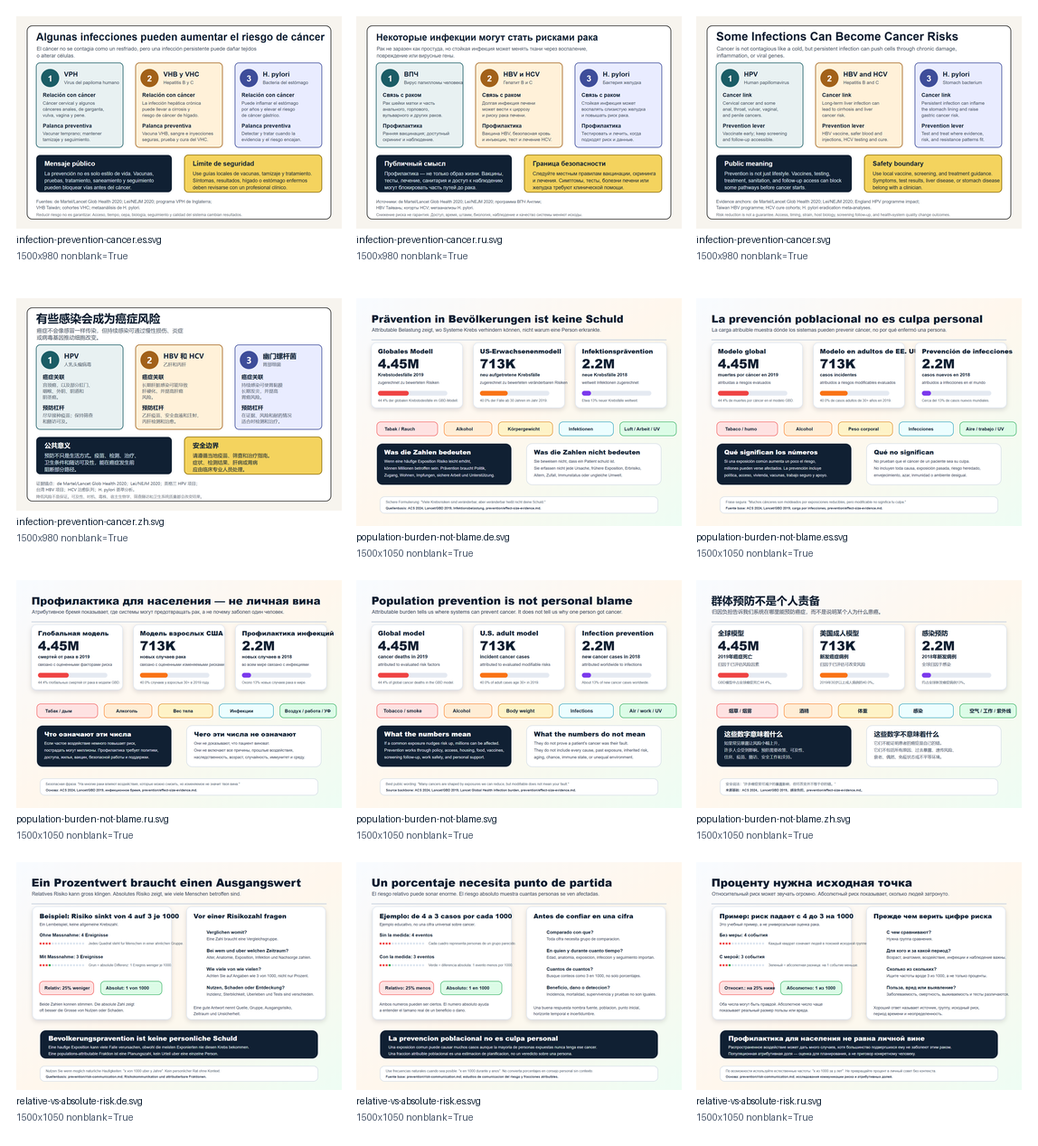
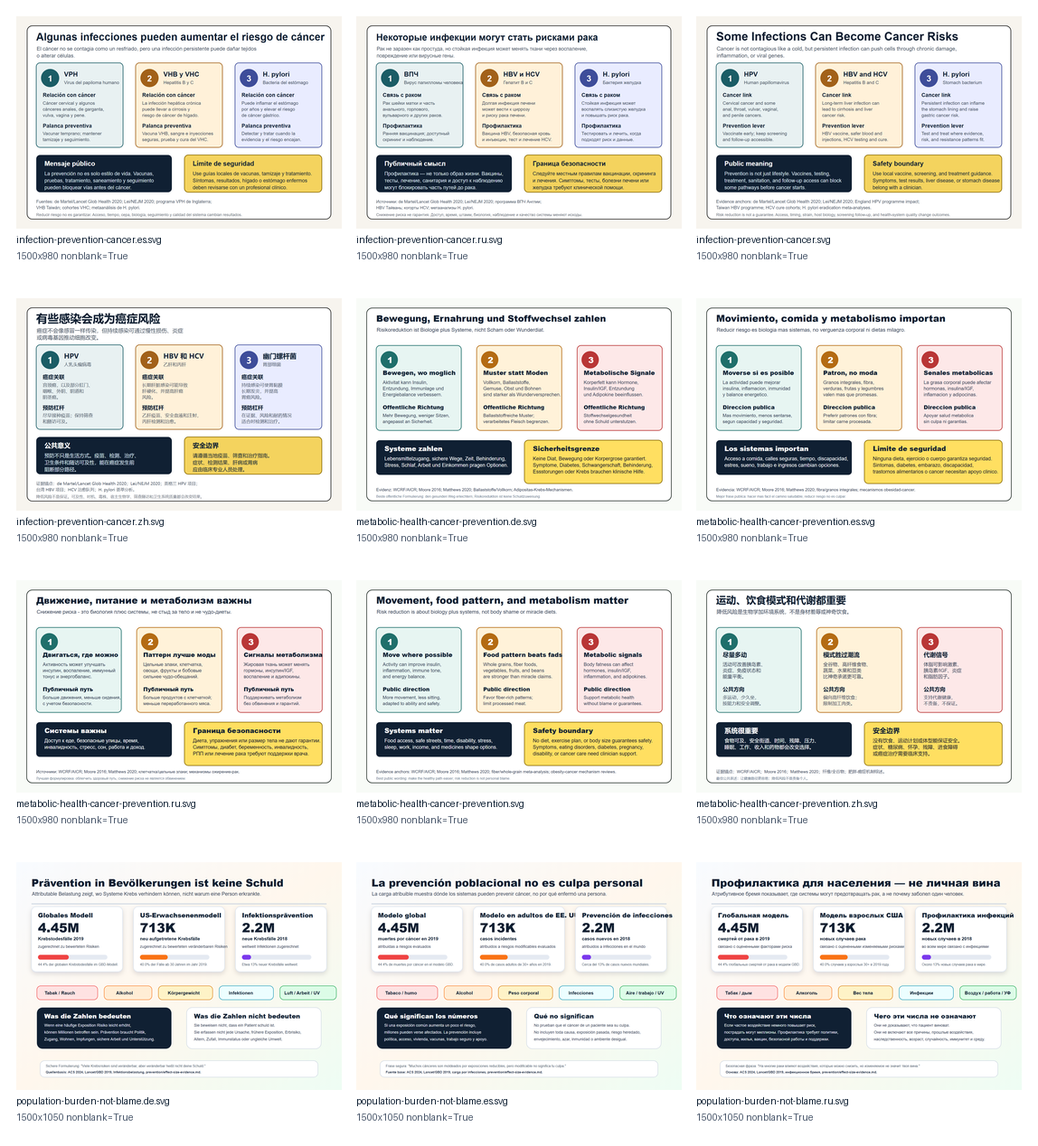
Add metabolic health prevention visuals

diff --git a/prevention/metabolic-health-diet-activity-evidence.md b/prevention/metabolic-health-diet-activity-evidence.md
@@ -1,0 +1,138 @@
+# Metabolic Health, Diet Pattern, And Physical Activity Evidence
+
+Status: first-pass goal-1 evidence page
+Last updated: 2026-06-12
+
+This page supports the public infographic and future agent answers. It is not a weight-loss prescription, exercise prescription, diet plan, or personal medical advice.
+
+Companion visual:
+
+- `visuals/metabolic-health-cancer-prevention.svg`
+- First localized visual variants: `visuals/metabolic-health-cancer-prevention.es.svg`, `visuals/metabolic-health-cancer-prevention.de.svg`, `visuals/metabolic-health-cancer-prevention.zh.svg`, and `visuals/metabolic-health-cancer-prevention.ru.svg`
+
+## Plain-Language Summary
+
+Movement, food pattern, body composition, diabetes/metabolic health, and inflammation can shape cancer risk, but this must never become body shame. The public message is not "thin equals safe" or "weight caused your cancer." The safer message is: build daily movement where possible, make fiber-rich plant foods and whole grains easier to access, limit heavily processed and processed-meat-heavy patterns, support metabolic health, and change environments so these choices are possible.
+
+## What Is Strong Enough For The Public Infographic
+
+- Physical activity is associated with lower risk for several cancers, with strongest public use as a broad, low-cost, multi-benefit lever.
+- Excess adiposity is linked to higher risk of multiple cancer types through plausible mechanisms such as insulin/IGF signaling, chronic inflammation, sex hormones, adipokines, and metabolic dysfunction.
+- Whole grains and fiber-containing foods are linked with lower colorectal cancer risk.
+- Processed meat and high red-meat intake are linked with higher colorectal cancer risk.
+- Food and movement are system issues: income, time, disability, neighborhood safety, work, food access, culture, stress, medications, and illness matter.
+
+## Mechanistic Model
+
+Metabolic and lifestyle exposures can affect cancer biology through overlapping pathways:
+
+- Insulin and IGF signaling can promote growth signals.
+- Chronic inflammation can create tissue stress and pro-tumor signaling.
+- Adipose tissue can alter sex hormones, adipokines, immune tone, and lipid signaling.
+- Physical activity can improve insulin sensitivity, immune regulation, inflammation, and energy balance.
+- Fiber-rich foods can affect gut transit, microbial metabolism, short-chain fatty acids, bile acids, and colorectal exposure patterns.
+
+Public simplification:
+
+> Movement and food patterns do not make cancer impossible. They can shift the terrain: less chronic metabolic stress, better insulin and inflammatory signaling, healthier gut exposure, and more resilient body systems.
+
+## Source Cards
+
+### WCRF/AICR Third Expert Report
+
+- URL: https://www.wcrf.org/wp-content/uploads/2024/11/Summary-of-Third-Expert-Report-2018.pdf
+- Source type: independent expert report / continuous evidence review
+- Reusable claims:
+  - WCRF/AICR recommendations include healthy weight, physical activity, whole grains/vegetables/fruits/beans, limiting fast foods, limiting red and processed meat, limiting sugar-sweetened drinks, and limiting alcohol.
+  - Evidence strength differs by exposure and cancer site.
+- Caution:
+  - Public messaging should use "risk reduction" and avoid implying individual control over all causes.
+
+### Moore: Leisure-Time Physical Activity And 26 Cancer Types
+
+- URL: https://pubmed.ncbi.nlm.nih.gov/27183032/
+- Full text: https://pmc.ncbi.nlm.nih.gov/articles/PMC5812009/
+- DOI: 10.1001/jamainternmed.2016.1548
+- Year: 2016
+- Source type: pooled prospective cohort analysis
+- Reusable claims:
+  - Higher leisure-time physical activity was associated with lower risk of multiple cancer types in 1.44 million adults.
+  - Many inverse associations persisted after adjustment for body size and smoking history.
+- Caution:
+  - Observational cohorts cannot prove every association is causal; melanoma/prostate signals also require nuance because detection and sun exposure can confound interpretation.
+
+### Matthews: Recommended Activity Levels And Lower Cancer Risk
+
+- URL: https://pubmed.ncbi.nlm.nih.gov/31877085/
+- DOI: 10.1200/JCO.19.02407
+- Year: 2020
+- Source type: pooled prospective cohort analysis
+- Reusable claims:
+  - Recommended leisure-time physical activity levels, 7.5 to 15 MET-hours per week, were associated with significantly lower risk of 7 of 15 cancer types studied.
+  - Dose-response patterns varied by cancer site.
+- Caution:
+  - Activity measurement was self-reported and population-level; do not convert into individualized guarantees.
+
+### Dietary Fiber, Whole Grains, And Colorectal Cancer
+
+- URL: https://pmc.ncbi.nlm.nih.gov/articles/PMC3213242/
+- Year: 2011
+- Source type: systematic review and dose-response meta-analysis of prospective studies
+- Reusable claims:
+  - Higher dietary fiber intake, especially cereal fiber and whole grains, was associated with lower colorectal cancer risk.
+- Caution:
+  - Dietary measurement is imperfect and food patterns cluster with other behaviors.
+
+### Mechanisms Linking Obesity And Cancer
+
+- URL: https://pmc.ncbi.nlm.nih.gov/articles/PMC3766377/
+- Source type: mechanistic review
+- Reusable claims:
+  - Mechanisms proposed for obesity-associated cancer include lipid signaling, inflammatory responses, insulin resistance, and adipokines.
+- Caution:
+  - Mechanistic plausibility does not identify the cause of an individual cancer.
+
+### Body Fatness As A Cause Of Cancer
+
+- URL: https://pubmed.ncbi.nlm.nih.gov/25870250/
+- Year: 2015
+- Source type: review
+- Reusable claims:
+  - Epidemiologic evidence gives clues to mechanisms linking excess body fatness to cancer risk.
+- Caution:
+  - Weight is influenced by biology, medications, disability, poverty, food systems, stress, sleep, work, and built environments.
+
+## Public Wording
+
+Use:
+
+- "Move more where possible; daily movement is cancer prevention infrastructure."
+- "Food pattern matters more than miracle foods."
+- "Fiber-rich foods and whole grains are a colorectal-cancer prevention signal."
+- "Metabolic health is biology plus environment, not a moral score."
+- "Build systems that make movement and healthy food easier."
+
+Avoid:
+
+- "Cancer is caused by being overweight."
+- "Just lose weight."
+- "This diet prevents cancer."
+- "One superfood fights cancer."
+- "Exercise guarantees protection."
+
+## Infographic Implications
+
+The flagship infographic should keep this as a broad lever: movement, healthy food pattern, and healthy weight where possible. A companion visual should carry the nuance:
+
+- Movement affects insulin, inflammation, immune regulation, and energy balance.
+- Food pattern affects gut exposures and metabolic signaling.
+- Body fatness can affect hormones, insulin/IGF, inflammation, adipokines, and tissue ecology.
+- Systems matter: safe streets, time, food access, disability support, sleep, work, stress, medication effects, and poverty.
+- Risk reduction is not personal blame.
+
+## Next Research Tasks
+
+- Add a colorectal-specific fiber/whole-grain/process-meat effect-size table.
+- Add a body-weight and cancer-site map with WCRF/IARC/ACS comparisons.
+- Add physical activity intervention and survivorship evidence separately from prevention evidence.
+- Add a page on ultra-processed foods that clearly separates direct cancer evidence from indirect weight/metabolic pathways.

diff --git a/visuals/infographic-research-state-checks.md b/visuals/infographic-research-state-checks.md
@@ -30,6 +30,8 @@ Current alcohol biology and tobacco co-exposure visual: `visuals/alcohol-aldh2-t
 
 Current tobacco cessation and cancer risk visual: `visuals/tobacco-cessation-cancer-risk.svg`
 
+Current metabolic health, movement, and food pattern visual: `visuals/metabolic-health-cancer-prevention.svg`
+
 Current site-specific prevention visual: `visuals/site-specific-prevention-levers.svg`
 
 Current relative versus absolute risk visual: `visuals/relative-vs-absolute-risk.svg`
@@ -87,6 +89,13 @@ Current localized tobacco cessation variants:
 - Mandarin Chinese: `visuals/tobacco-cessation-cancer-risk.zh.svg`
 - Russian: `visuals/tobacco-cessation-cancer-risk.ru.svg`
 
+Current localized metabolic health variants:
+
+- Spanish: `visuals/metabolic-health-cancer-prevention.es.svg`
+- German: `visuals/metabolic-health-cancer-prevention.de.svg`
+- Mandarin Chinese: `visuals/metabolic-health-cancer-prevention.zh.svg`
+- Russian: `visuals/metabolic-health-cancer-prevention.ru.svg`
+
 Current localized relative/absolute risk variants:
 
 - Spanish: `visuals/relative-vs-absolute-risk.es.svg`
@@ -119,13 +128,14 @@ New QA artifacts:
 ### What Changed
 
 - The current SVG set now has repeatable headless Chrome render QA in addition to XML structural QA.
-- All 66 current SVGs render to nonblank PNGs at their declared canvas sizes.
+- All 71 current SVGs render to nonblank PNGs at their declared canvas sizes.
 - Contact sheets make it easier to inspect the visual set across languages and companions without opening every SVG one by one.
 - The claim-filter localized variants were included in this render pass; obvious German and Russian text overflow found during contact-sheet/full-size inspection was corrected before commit.
 - The infection-prevention visual set was included in the latest render pass; obvious English template overflow was corrected before commit, and English, German, Russian, and Mandarin full-size previews were inspected.
 - The environment/work visual set was included in the latest render pass; English, German, Russian, and Mandarin full-size previews were inspected, and obvious Russian card overflow was corrected before commit.
 - The alcohol biology visual set was included in the latest render pass; English, Spanish, Russian, and Mandarin full-size previews were inspected, and obvious safety-panel/footer overflow was corrected before commit.
 - The tobacco cessation visual set was included in the latest render pass; English, German, Russian, and Mandarin full-size previews were inspected, and obvious English/German/Russian text overflow was corrected before commit.
+- The metabolic health visual set was included in the latest render pass; English, Spanish, German, Russian, and Mandarin full-size previews were inspected, and obvious Spanish/German/Russian overflow was corrected before commit.
 
 ### Decision For The Flagship Infographic
 
@@ -158,6 +168,34 @@ Keep the flagship infographic's tobacco line short: "No tobacco; support quittin
 ### Translation Impact
 
 Keep localized tobacco cessation visuals under native review before promotion. The wording must preserve addiction biology, support, and no-blame framing while avoiding false certainty that quitting eliminates all risk.
+
+## 2026-06-12 Check: Metabolic Health Movement And Food Pattern Visual
+
+Evidence page:
+
+- `prevention/metabolic-health-diet-activity-evidence.md`
+
+New visual:
+
+- `visuals/metabolic-health-cancer-prevention.svg`
+- `visuals/metabolic-health-cancer-prevention.es.svg`
+- `visuals/metabolic-health-cancer-prevention.de.svg`
+- `visuals/metabolic-health-cancer-prevention.zh.svg`
+- `visuals/metabolic-health-cancer-prevention.ru.svg`
+
+### What Changed
+
+- The wiki now has a public companion visual explaining physical activity, food pattern, body fatness, metabolic signaling, systems access, and no-body-shame risk reduction.
+- The visual is grounded in WCRF/AICR synthesis, Moore 2016 pooled physical-activity cohort evidence, Matthews 2020 activity-dose evidence, fiber/whole-grain colorectal meta-analysis, and obesity-cancer mechanism reviews.
+- First-pass localized versions now exist for Spanish, German, Mandarin Chinese, and Russian.
+
+### Decision For The Flagship Infographic
+
+Keep the flagship infographic's movement, food, and weight line short. Use this companion when readers need the deeper idea that metabolic health is biology plus environment, not a moral score or miracle-diet promise.
+
+### Translation Impact
+
+Keep localized metabolic-health visuals under native review before promotion. The wording must avoid body shame, eating-disorder triggers, disability erasure, and false promises that any diet, exercise plan, or body size guarantees cancer prevention.
 
 ## 2026-06-12 Check: Population Burden Is Not Personal Blame Visual
 

diff --git a/crawl-queue/goal-1-next-crawl.md b/crawl-queue/goal-1-next-crawl.md
@@ -12,6 +12,7 @@ Last updated: 2026-06-12
 ## Prevention Levers
 
 - Compare WCRF/AICR, ACS, Cancer Research UK, IARC, and major cohort/meta-analysis evidence for each prevention lever.
+- Deepen metabolic health, movement, and food-pattern evidence beyond public agency summaries. Started: `prevention/metabolic-health-diet-activity-evidence.md` plus localized public visual variants. Next: colorectal fiber/whole-grain/process-meat effect sizes, ultra-processed foods, and body-weight cancer-site map.
 - Deepen `prevention/effect-size-evidence.md` with high-confidence levers without implying individual determinism. Added infection, environmental, occupational, screening mortality, screening harm, first-pass absolute screening tradeoffs, first-pass non-screening absolute examples, and focused alcohol mechanism/source synthesis. Next priority: more HPV, HBV, alcohol absolute denominators, radon, and air pollution absolute examples.
 - Deepen claim cards for misleading prevention and treatment claims. Started: supplements, sugar, detoxes, alkaline diets, high-dose vitamin C, cannabis, ivermectin/fenbendazole, fasting, ketogenic diets, and headline-reading examples. Next: "immune boosting," oxygen therapies, turmeric/curcumin, apricot kernels/laetrile, and translated headline examples.
 - Continue turning `prevention/cancer-site-prevention-map.md` into individual cancer-type pages. Started: colorectal, cervical, breast, liver, stomach, lung, skin, and oral/oropharyngeal. Next: deepen each page with effect sizes, geographic modifiers, and dedicated mechanism/source cards.
@@ -47,6 +48,7 @@ Last updated: 2026-06-12
 - Visually QA the environment/work prevention visual and first localized variants: `visuals/environment-work-cancer-prevention.svg`, `.es.svg`, `.de.svg`, `.zh.svg`, and `.ru.svg`. Then deepen region-specific radon, asbestos, PM2.5, diesel exhaust, silica, and worker-protection evidence before expanding to additional languages.
 - Visually QA the alcohol biology and tobacco co-exposure visual and first localized variants: `visuals/alcohol-aldh2-tobacco-risk.svg`, `.es.svg`, `.de.svg`, `.zh.svg`, and `.ru.svg`. Then add Japanese and Korean wording for flushing/ALDH2 only after culturally safe native review.
 - Visually QA the tobacco cessation and cancer risk visual and first localized variants: `visuals/tobacco-cessation-cancer-risk.svg`, `.es.svg`, `.de.svg`, `.zh.svg`, and `.ru.svg`. Then deepen cessation intervention evidence and add more language variants after native review.
+- Visually QA the metabolic health, movement, and food pattern visual and first localized variants: `visuals/metabolic-health-cancer-prevention.svg`, `.es.svg`, `.de.svg`, `.zh.svg`, and `.ru.svg`. Then deepen body-weight, diet-pattern, fiber, processed-meat, and activity evidence before expanding to additional languages.
 - Visually QA the new site-specific prevention visual and first localized variants: `visuals/site-specific-prevention-levers.svg`, `.es.svg`, `.de.svg`, `.zh.svg`, and `.ru.svg`. Then expand to additional languages if the compact layout holds.
 - Visually QA the new relative versus absolute risk visual and first localized variants: `visuals/relative-vs-absolute-risk.svg`, `.es.svg`, `.de.svg`, `.zh.svg`, and `.ru.svg`. Then expand to additional languages if the compact layout holds.
 - Visually QA the new population burden/no-blame visual and first localized variants: `visuals/population-burden-not-blame.svg`, `.es.svg`, `.de.svg`, `.zh.svg`, and `.ru.svg`. Then expand to additional languages if the compact layout holds.

diff --git a/visuals/visual-qa-log.md b/visuals/visual-qa-log.md
@@ -16,6 +16,7 @@ Scope:
 - Environment/work add-on visual: English plus first localized SVGs.
 - Alcohol biology add-on visual: English plus first localized SVGs.
 - Tobacco cessation add-on visual: English plus first localized SVGs.
+- Metabolic health add-on visual: English plus first localized SVGs.
 
 Checked files:
 
@@ -85,6 +86,11 @@ Checked files:
 - `visuals/tobacco-cessation-cancer-risk.de.svg`
 - `visuals/tobacco-cessation-cancer-risk.zh.svg`
 - `visuals/tobacco-cessation-cancer-risk.ru.svg`
+- `visuals/metabolic-health-cancer-prevention.svg`
+- `visuals/metabolic-health-cancer-prevention.es.svg`
+- `visuals/metabolic-health-cancer-prevention.de.svg`
+- `visuals/metabolic-health-cancer-prevention.zh.svg`
+- `visuals/metabolic-health-cancer-prevention.ru.svg`
 
 Result:
 
@@ -106,7 +112,7 @@ Browser QA attempt:
 
 Scope:
 
-- All 66 SVG files in `visuals/`.
+- All 71 SVG files in `visuals/`.
 
 Tooling:
 
@@ -125,12 +131,13 @@ Generated artifacts:
 
 Result:
 
-- Headless Chrome rendered all 66 SVG files at their declared canvas sizes.
-- All 66 renders were nonblank.
+- Headless Chrome rendered all 71 SVG files at their declared canvas sizes.
+- All 71 renders were nonblank.
 - Contact-sheet inspection did not reveal blank canvases or completely missing non-Latin glyph rendering.
 - Some dense translated visuals, especially non-Latin and right-to-left layouts, still need close human inspection for clipping, text crowding, line overflow, and translation quality.
 - The alcohol biology visual set was included in the latest render pass; English, Spanish, Russian, and Mandarin full-size previews were inspected, and obvious safety-panel/footer overflow was corrected before commit.
 - The tobacco cessation visual set was included in the latest render pass; English, German, Russian, and Mandarin full-size previews were inspected, and obvious English/German/Russian text overflow was corrected before commit.
+- The metabolic health visual set was included in the latest render pass; English, Spanish, German, Russian, and Mandarin full-size previews were inspected, and obvious Spanish/German/Russian overflow was corrected before commit.
 
 Repository note:
 
@@ -163,6 +170,8 @@ Repository note:
 | Alcohol biology localized SVGs | Passed | Headless Chrome nonblank passed; Spanish/Russian/Mandarin full-size previews checked; safety-panel overflow fixed | Still needed |
 | Tobacco cessation SVG | Passed | Headless Chrome nonblank passed; English full-size preview checked; heading overflow fixed | Not applicable |
 | Tobacco cessation localized SVGs | Passed | Headless Chrome nonblank passed; German/Russian/Mandarin full-size previews checked; German/Russian overflow fixed | Still needed |
+| Metabolic health SVG | Passed | Headless Chrome nonblank passed; English full-size preview checked | Not applicable |
+| Metabolic health localized SVGs | Passed | Headless Chrome nonblank passed; Spanish/German/Russian/Mandarin full-size previews checked; overflow fixed | Still needed |
 
 ## Next Visual QA Tasks
 

diff --git a/README.md b/README.md
@@ -76,6 +76,17 @@ Tobacco cessation and cancer risk visual:
 
 ![Tobacco cancer risk falls when exposure stops](visuals/tobacco-cessation-cancer-risk.svg)
 
+Metabolic health, movement, and food pattern visual:
+
+![Movement, food pattern, and metabolism matter](visuals/metabolic-health-cancer-prevention.svg)
+
+Localized metabolic health variants:
+
+- [Spanish metabolic health SVG](visuals/metabolic-health-cancer-prevention.es.svg)
+- [German metabolic health SVG](visuals/metabolic-health-cancer-prevention.de.svg)
+- [Mandarin Chinese metabolic health SVG](visuals/metabolic-health-cancer-prevention.zh.svg)
+- [Russian metabolic health SVG](visuals/metabolic-health-cancer-prevention.ru.svg)
+
 Localized tobacco cessation variants:
 
 - [Spanish tobacco cessation SVG](visuals/tobacco-cessation-cancer-risk.es.svg)
@@ -167,6 +178,7 @@ Research backing:
 - [Claim evaluation framework](sources/claim-evaluation-framework.md)
 - [Goal 1 source cards](sources/goal-1-public-cancer-literacy.md)
 - [Risk reduction levers](prevention/goal-1-risk-reduction-levers.md)
+- [Metabolic health, diet pattern, and activity evidence](prevention/metabolic-health-diet-activity-evidence.md)
 - [Tobacco cessation and cancer evidence](prevention/tobacco-cessation-cancer-evidence.md)
 - [Alcohol and cancer evidence](prevention/alcohol-and-cancer-evidence.md)
 - [Alcohol, ALDH2, tobacco, and upper aerodigestive cancer](prevention/alcohol-aldh2-tobacco-upper-aerodigestive-evidence.md)
@@ -193,6 +205,7 @@ Research backing:
 - [How cancer grows](concepts/how-cancer-grows.md)
 - [Cancer growth mechanism map](concepts/cancer-growth-mechanism-map.md)
 - [Infographic brief](visuals/goal-1-infographic-brief.md)
+- [Metabolic health, movement, and food pattern visual](visuals/metabolic-health-cancer-prevention.svg)
 - [Tobacco cessation and cancer risk visual](visuals/tobacco-cessation-cancer-risk.svg)
 - [Alcohol biology and tobacco co-exposure visual](visuals/alcohol-aldh2-tobacco-risk.svg)
 - [Claim-filter visual](visuals/cancer-claim-filter.svg)

diff --git a/i18n/README.md b/i18n/README.md
@@ -140,6 +140,18 @@ This public visual explains tobacco smoke carcinogens, quitting benefits, persis
 | Mandarin Chinese | [tobacco-cessation-cancer-risk.zh.svg](../visuals/tobacco-cessation-cancer-risk.zh.svg) | First localized SVG; native review needed |
 | Russian | [tobacco-cessation-cancer-risk.ru.svg](../visuals/tobacco-cessation-cancer-risk.ru.svg) | First localized SVG; native review needed |
 
+## Metabolic Health Movement And Food Pattern Visual Variants
+
+This public visual explains movement, food pattern, body fatness, metabolic signaling, and access systems without body shame or miracle-diet promises. These translations should receive native review because food, weight, disability, eating-disorder, and stigma wording varies by culture and language.
+
+| Language | Image | Status |
+| --- | --- | --- |
+| English | [metabolic-health-cancer-prevention.svg](../visuals/metabolic-health-cancer-prevention.svg) | Canonical first-pass SVG |
+| Spanish | [metabolic-health-cancer-prevention.es.svg](../visuals/metabolic-health-cancer-prevention.es.svg) | First localized SVG; native review needed |
+| German | [metabolic-health-cancer-prevention.de.svg](../visuals/metabolic-health-cancer-prevention.de.svg) | First localized SVG; native review needed |
+| Mandarin Chinese | [metabolic-health-cancer-prevention.zh.svg](../visuals/metabolic-health-cancer-prevention.zh.svg) | First localized SVG; native review needed |
+| Russian | [metabolic-health-cancer-prevention.ru.svg](../visuals/metabolic-health-cancer-prevention.ru.svg) | First localized SVG; native review needed |
+
 ## Site-Specific Prevention Visual Variants
 
 This public visual maps major cancer sites to high-signal prevention, vaccination, screening, and exposure-reduction levers. These translations should receive native review before being treated as final medical wording.

diff --git a/visuals/README.md b/visuals/README.md
@@ -76,6 +76,11 @@ Use `../tools/render_svg_contact_sheets.py` to render all SVGs with local headle
 | Tobacco cessation and cancer risk - German | `tobacco-cessation-cancer-risk.de.svg` | First localized SVG; native review needed |
 | Tobacco cessation and cancer risk - Mandarin Chinese | `tobacco-cessation-cancer-risk.zh.svg` | First localized SVG; native review needed |
 | Tobacco cessation and cancer risk - Russian | `tobacco-cessation-cancer-risk.ru.svg` | First localized SVG; native review needed |
+| Metabolic health, movement, and food pattern | `metabolic-health-cancer-prevention.svg` | First-pass English SVG |
+| Metabolic health, movement, and food pattern - Spanish | `metabolic-health-cancer-prevention.es.svg` | First localized SVG; native review needed |
+| Metabolic health, movement, and food pattern - German | `metabolic-health-cancer-prevention.de.svg` | First localized SVG; native review needed |
+| Metabolic health, movement, and food pattern - Mandarin Chinese | `metabolic-health-cancer-prevention.zh.svg` | First localized SVG; native review needed |
+| Metabolic health, movement, and food pattern - Russian | `metabolic-health-cancer-prevention.ru.svg` | First localized SVG; native review needed |
 | Alcohol biology and tobacco co-exposure | `alcohol-aldh2-tobacco-risk.svg` | First-pass English SVG |
 | Alcohol biology and tobacco co-exposure - Spanish | `alcohol-aldh2-tobacco-risk.es.svg` | First localized SVG; native review needed |
 | Alcohol biology and tobacco co-exposure - German | `alcohol-aldh2-tobacco-risk.de.svg` | First localized SVG; native review needed |

diff --git a/visuals/qa-renders/svg-browser-render-qa-report.md b/visuals/qa-renders/svg-browser-render-qa-report.md
@@ -4,8 +4,8 @@ Date: 2026-06-12
 
 Renderer: `C:\Program Files\Google\Chrome\Application\chrome.exe`
 
-SVG files rendered: 66
-Nonblank renders: 66
+SVG files rendered: 71
+Nonblank renders: 71
 Blank or near-blank renders: 0
 
 ## Contact Sheets
@@ -67,6 +67,11 @@ Blank or near-blank renders: 0
 | `infection-prevention-cancer.ru.svg` | 1500x980 | True | 38.71 |
 | `infection-prevention-cancer.svg` | 1500x980 | True | 39.38 |
 | `infection-prevention-cancer.zh.svg` | 1500x980 | True | 38.96 |
+| `metabolic-health-cancer-prevention.de.svg` | 1500x980 | True | 38.83 |
+| `metabolic-health-cancer-prevention.es.svg` | 1500x980 | True | 38.21 |
+| `metabolic-health-cancer-prevention.ru.svg` | 1500x980 | True | 38.78 |
+| `metabolic-health-cancer-prevention.svg` | 1500x980 | True | 38.71 |
+| `metabolic-health-cancer-prevention.zh.svg` | 1500x980 | True | 36.64 |
 | `population-burden-not-blame.de.svg` | 1500x1050 | True | 31.50 |
 | `population-burden-not-blame.es.svg` | 1500x1050 | True | 31.34 |
 | `population-burden-not-blame.ru.svg` | 1500x1050 | True | 31.93 |

diff --git a/prevention/lifestyle-and-burden-evidence.md b/prevention/lifestyle-and-burden-evidence.md
@@ -126,10 +126,12 @@ Current companion visual:
 
 - `visuals/population-burden-not-blame.svg`
 - First localized variants: `visuals/population-burden-not-blame.es.svg`, `.de.svg`, `.zh.svg`, `.ru.svg`
+- `visuals/metabolic-health-cancer-prevention.svg`
+- First localized metabolic health variants: `visuals/metabolic-health-cancer-prevention.es.svg`, `.de.svg`, `.zh.svg`, `.ru.svg`
 
 ## Next Research Tasks
 
 - Create cancer-site-specific prevention pages for colorectal, breast, lung, liver, cervical, gastric, skin, and oral/oropharyngeal cancers.
-- Add effect-size tables where evidence is strong enough.
+- Deepen metabolic-health effect-size tables where evidence is strong enough; started with `prevention/metabolic-health-diet-activity-evidence.md`.
 - Compare WCRF/AICR, ACS, Cancer Research UK, and IARC recommendations.
 - Add a page on misleading cancer-prevention claims and how to evaluate them.
